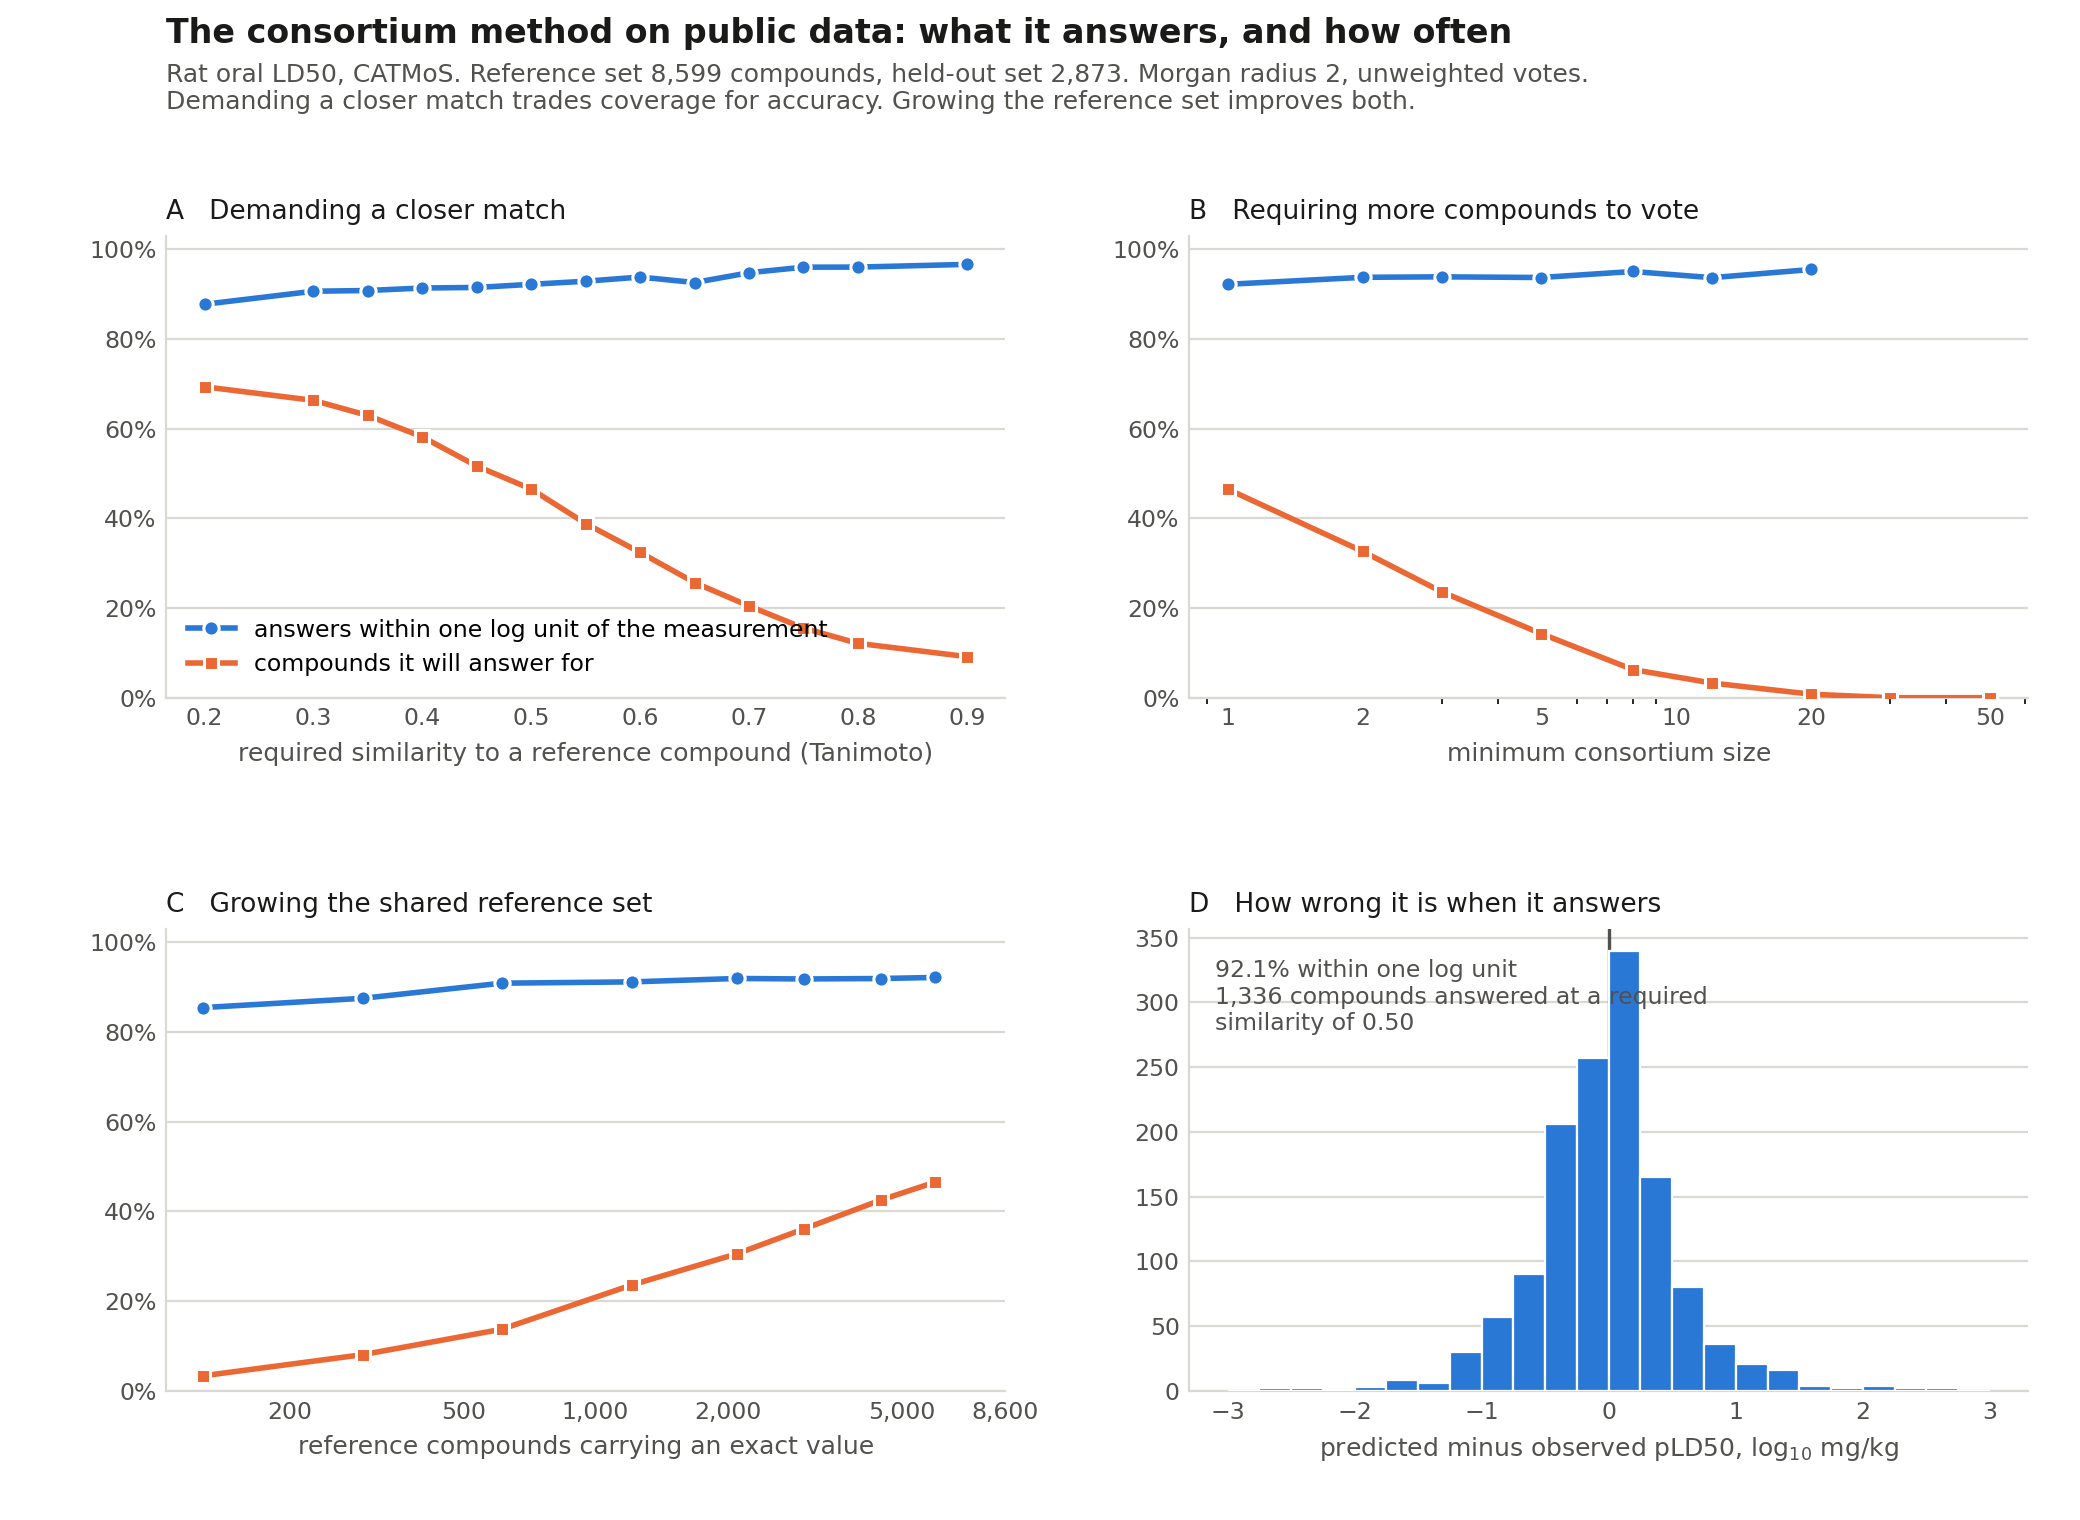
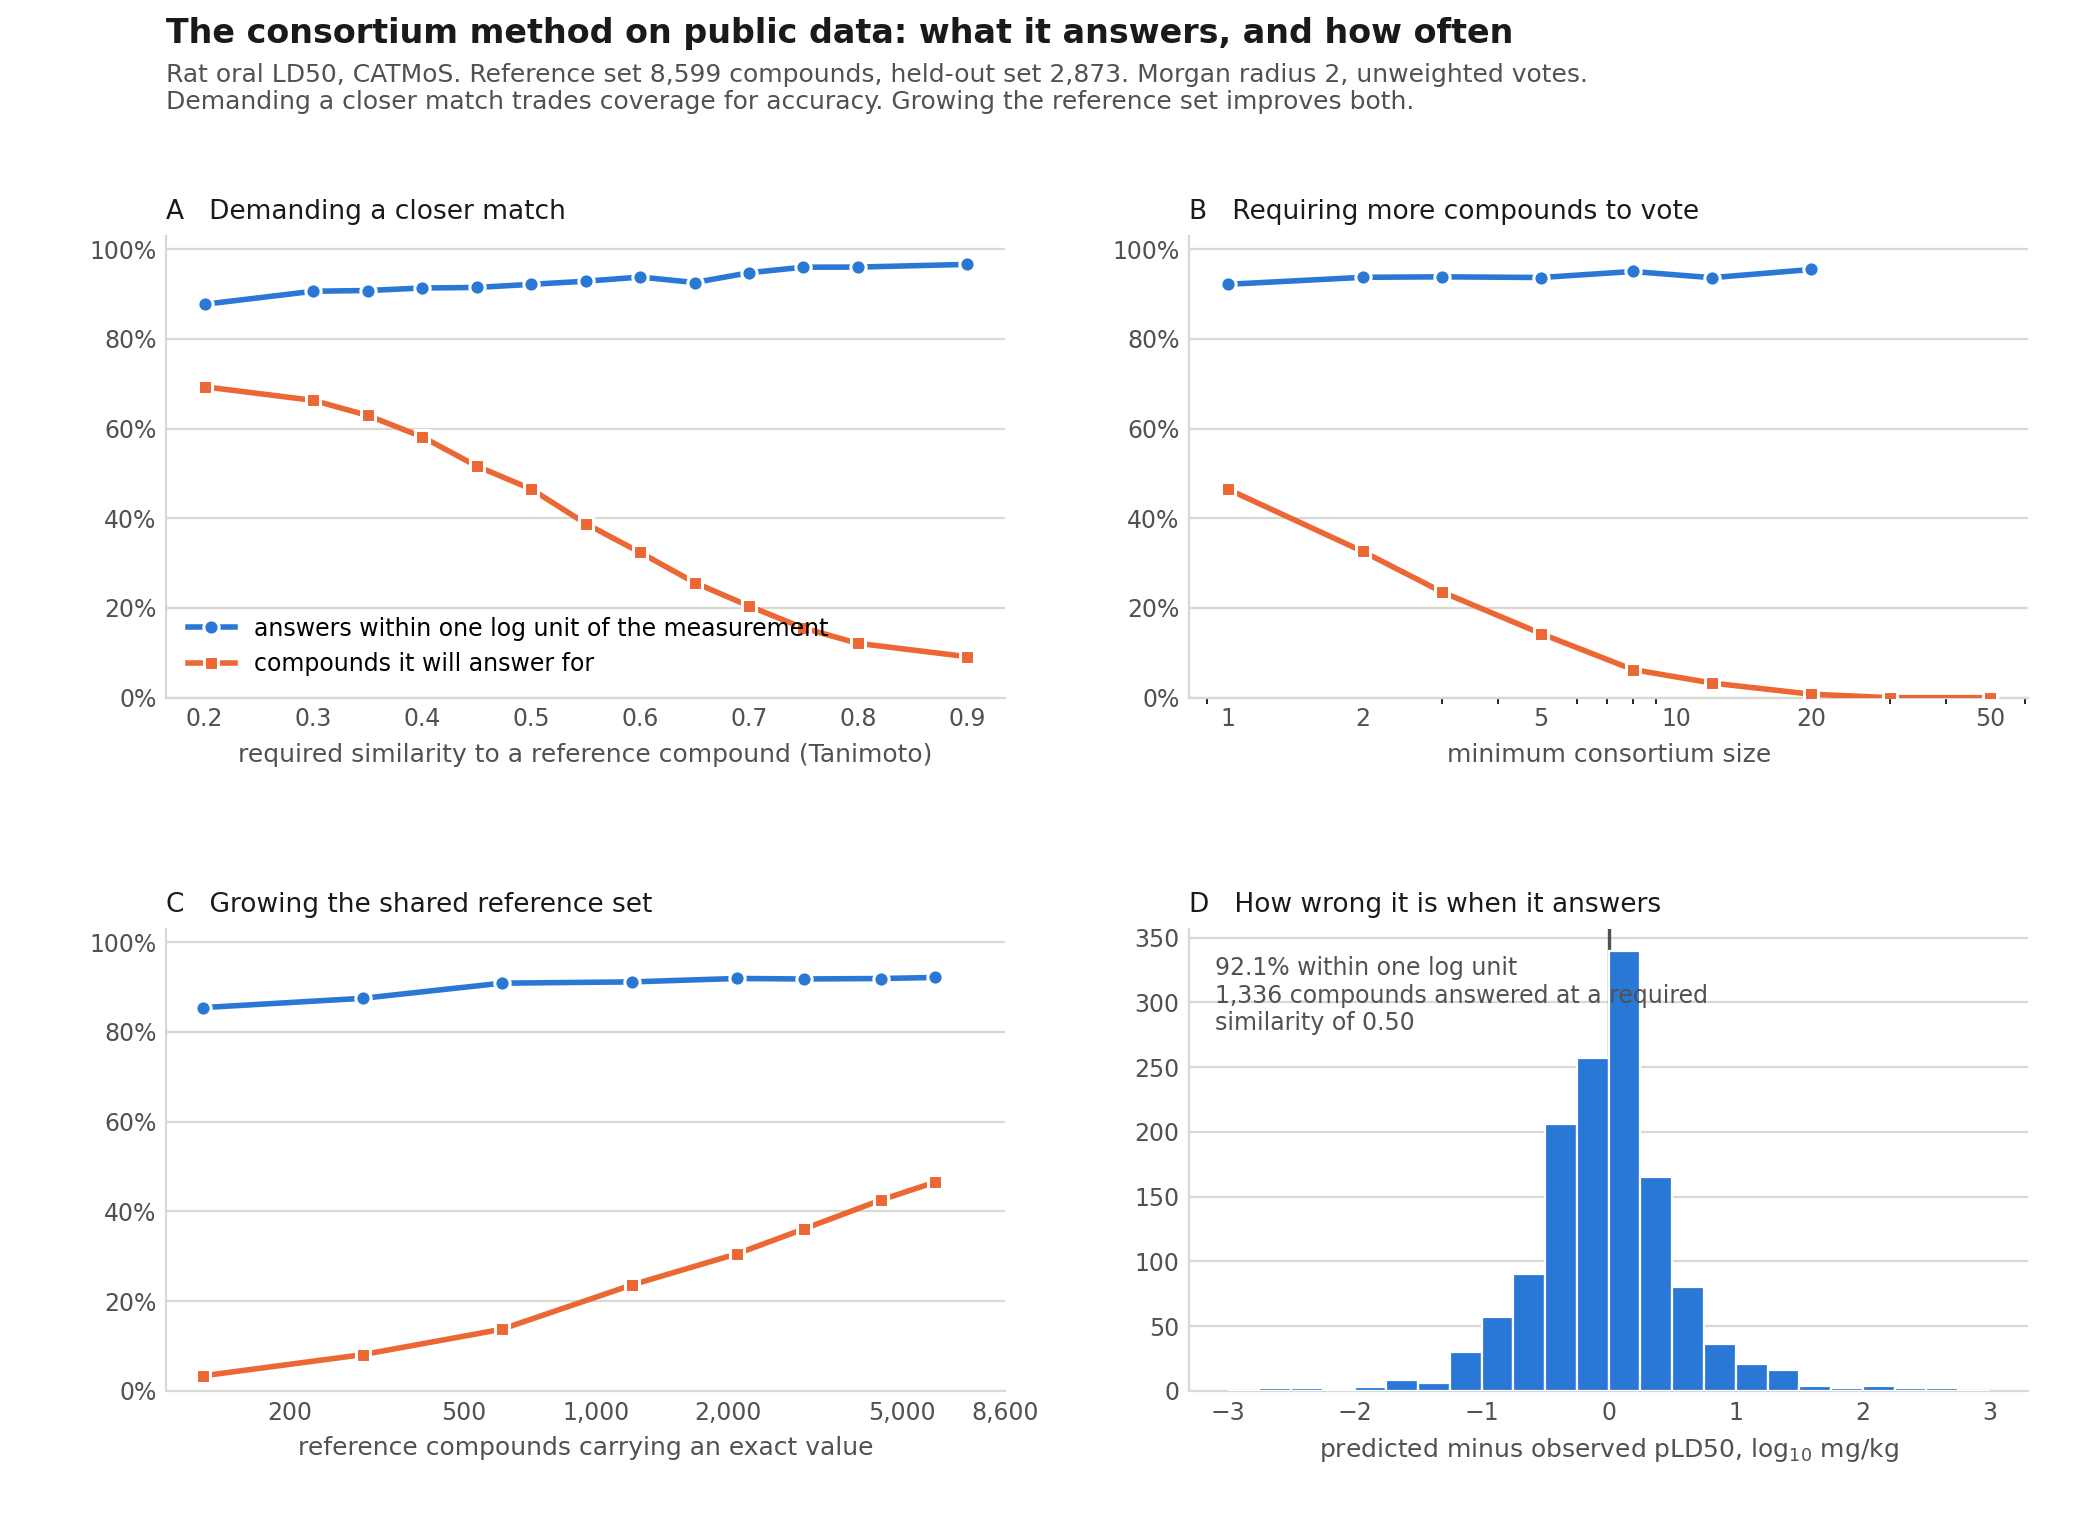
Correct the measurement count basis and the active/inactive wording
A reviewer found that the published measurement total was a raw TOXRIC record
count taken before duplicate resolution. toxric_endpoints.csv carries `n`, the
pre-deduplication record count, beside `unique`, the count after resolving to
one measurement per compound and endpoint, and every analysis uses `unique`.

The figure caption said 156,460 measurements over 34,197 compounds. The correct
pair for the 28 scored endpoints is 149,224 over 34,162, confirmed two ways: by
summing the `unique` column, and by counting non-null cells in the curated
matrix with the blank-InChIKey row and the non-endpoint "Canonical SMILES"
column excluded.

Also corrects toxic/harmless to active/inactive. These endpoints measure
activity in an assay and the stronger words overstate what the labels establish.
The manuscript is being changed the same way.

- figures/make_figures_paper.py: caption and the panel B axis label
- docs/consortium_sweeps.png, docs/endpoints.png: re-rendered; both are
  pixel-identical to the corrected renders in the Toxicity project, so only the
  two text labels moved and no plotted value changed
- README.md: active/inactive wording, and the reference-set sweep no longer
  reads as a flat accuracy trend. Accuracy climbs from 85.4% to 90.9% by 610
  voting compounds and then holds between 91.2% and 92.1%.
- figures/README.md: the standing rule about counts

Claude-Session: https://claude.ai/code/session_01Qqa673pEQt9TyfzHD1ZHvP

diff --git a/figures/make_figures_paper.py b/figures/make_figures_paper.py
@@ -160,7 +160,7 @@ def fig_endpoints(res):
              "The same machinery across 28 further toxicity endpoints",
              fontsize=12.5, color=INK, ha="left", fontweight="bold")
     fig.text(0.06, 0.936,
-             "TOXRIC, 156,460 measurements over 34,197 compounds.",
+             "TOXRIC, 149,224 measurements over 34,162 compounds.",
              fontsize=9, color=MUTED, ha="left")
 
     a = fig.add_axes([0.085, 0.635, 0.87, 0.255])
@@ -218,7 +218,7 @@ def fig_endpoints(res):
     b.set_ylim(-0.7, len(op) - 0.3)
     b.set_xticks([0, 0.25, 0.5, 0.75, 1.0])
     b.set_xlabel("Matthews correlation between the call and the measurement. "
-                 "Gray bars rest on fewer than 20 measured toxic compounds.",
+                 "Gray bars rest on fewer than 20 measured actives.",
                  fontsize=9)
     b.set_title("B   Where the method works, at the strictest match that still "
                 "answers one compound in five", fontsize=9.5, color=INK,

diff --git a/README.md b/README.md
@@ -71,8 +71,9 @@ always reported.
 
 Growing the reference set is the one move that does not cost anything. Panel C:
 from 127 to 5,953 voting compounds, meaning those carrying a measured LD50,
-accuracy holds between 85.4 and 92.1 percent while the share of compounds
-answered rises from 3 to 47 percent. **A bigger
+the share of compounds answered rises from 3 to 47 percent. Accuracy is not
+flat across that range: it climbs from 85.4 to 90.9 percent by 610 voting
+compounds, then holds between 91.2 and 92.1 percent. **A bigger
 shared reference set buys reach, not accuracy**, which is why pooling is worth
 something to everyone who contributes.
 
@@ -104,9 +105,9 @@ compounds answered for keeps falling to 8.6% at 0.90 and never levels off, so
 the axis runs to zero rather than cutting that curve off.
 
 **Panel B** ranks the 28 endpoints by the Matthews correlation between the call
-and the measurement, with the share of measured toxic compounds caught and the
-share of measured harmless compounds passed printed beside each bar. Gray bars
-rest on fewer than 20 measured toxic compounds and are too thin to rank.
+and the measurement, with the share of measured actives caught and the
+share of measured inactives passed printed beside each bar. Gray bars
+rest on fewer than 20 measured actives and are too thin to rank.
 
 Percent correct is not reported, and no majority-class comparison is drawn. These
 labels are lopsided, 87 to 13 on CYP2D6, and that ratio records which compounds

diff --git a/figures/README.md b/figures/README.md
@@ -46,3 +46,22 @@ that run rather than editing them:
 TOXPRED_FIGURE_DATA=/path/to/results TOXPRED_FIGURE_OUT=/tmp/figs \
   python figures/make_figures_paper.py
 ```
+
+## Counts: check what the column counts
+
+Never take a count from a summary column without checking what that column
+counts. On 1 October 2026 a reviewer caught a measurement total that was a raw
+record count: `toxric_endpoints.csv` carries `n`, the TOXRIC record count
+**before** duplicate resolution, beside `unique`, the count after resolving to
+one measurement per compound and endpoint. Every analysis uses `unique`. A
+script summed `n`, asserted the total, and so pinned the wrong basis in place
+for weeks, and the number reached a figure caption and the site.
+
+Two habits follow:
+
+- Where a script asserts a count, the assertion records its basis in a comment,
+  and where two bases exist, record **both** so neither can be mistaken for the
+  other.
+- Any number taken from a README or a handoff document is recomputed from the
+  data or the code before it is published. A number that has been copied once
+  has usually been copied twice.
